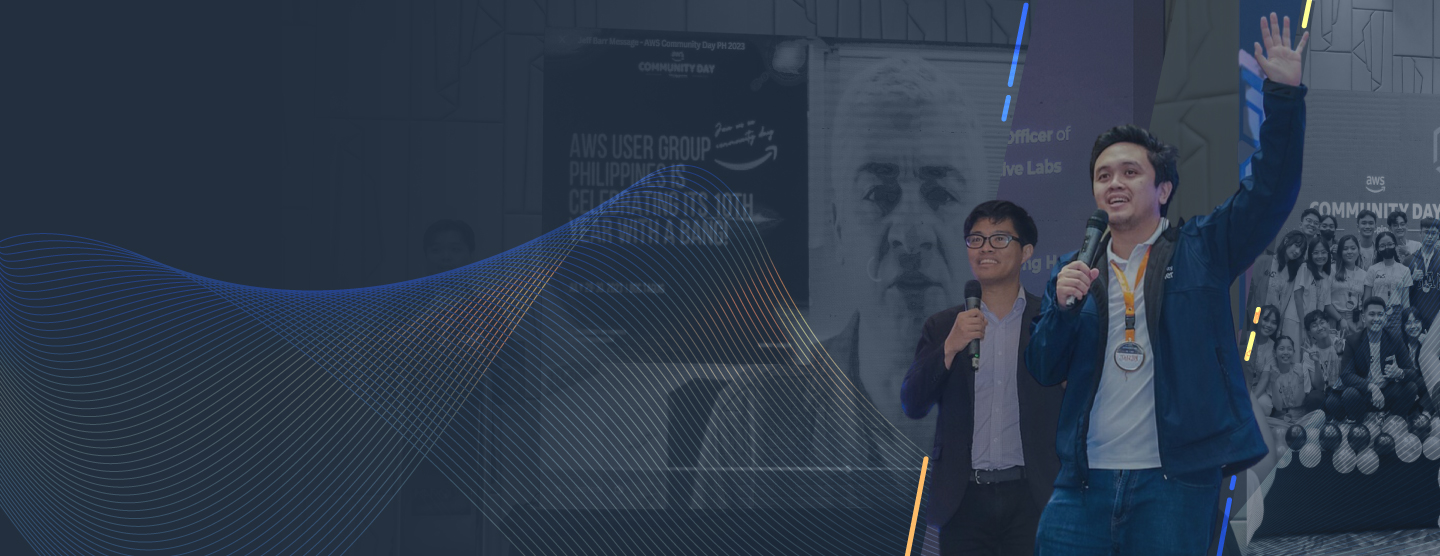
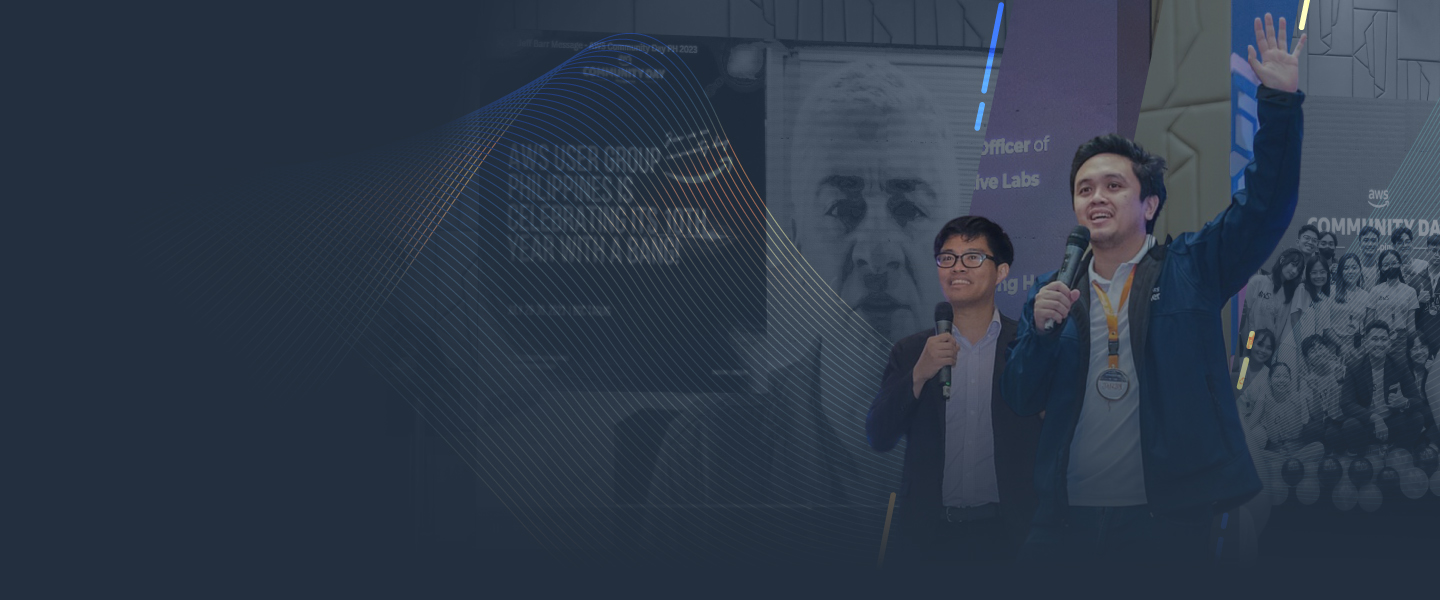
Fix hero section layout

Changed region(s): [[0.0, 0.0, 0.9375, 1.0], [0.8438, 0.3058, 1.0, 1.0], [0.6562, 0.0, 0.7188, 0.1529]]

diff --git a/style.css b/style.css
@@ -129,16 +129,18 @@ body {
 }
 
 /* HERO SECTION */
-.hero-section {
-  padding: 13rem 0 16rem 0;
-  background-image: url("assets/hero-bg-1.png");
+.section-hero {
+  min-height: 100vh;
+  padding-bottom: 16rem;
+  background-image: url("assets/hero-bg.jpg");
   background-size: cover;
   background-position: center;
   background-repeat: no-repeat;
   background-color: #232f3f;
-  height: 100vh;
+  display: flex;
+  justify-content: center;
 }
-.hero {
+.hero-content {
   max-width: 140rem;
   margin: 0 auto;
   padding: 0 3.2rem;

diff --git a/index.html b/index.html
@@ -42,8 +42,8 @@
       </a>
     </header>
     <main>
-      <section class="hero-section">
-        <div class="hero">
+      <section class="section-hero">
+        <div class="hero-content">
           <div class="hero-text">
             <h1 class="hero-heading">
               <span class="highlight">Learn and connect</span> with our <span class="highlight">AWS</span>ome community.</h1>
